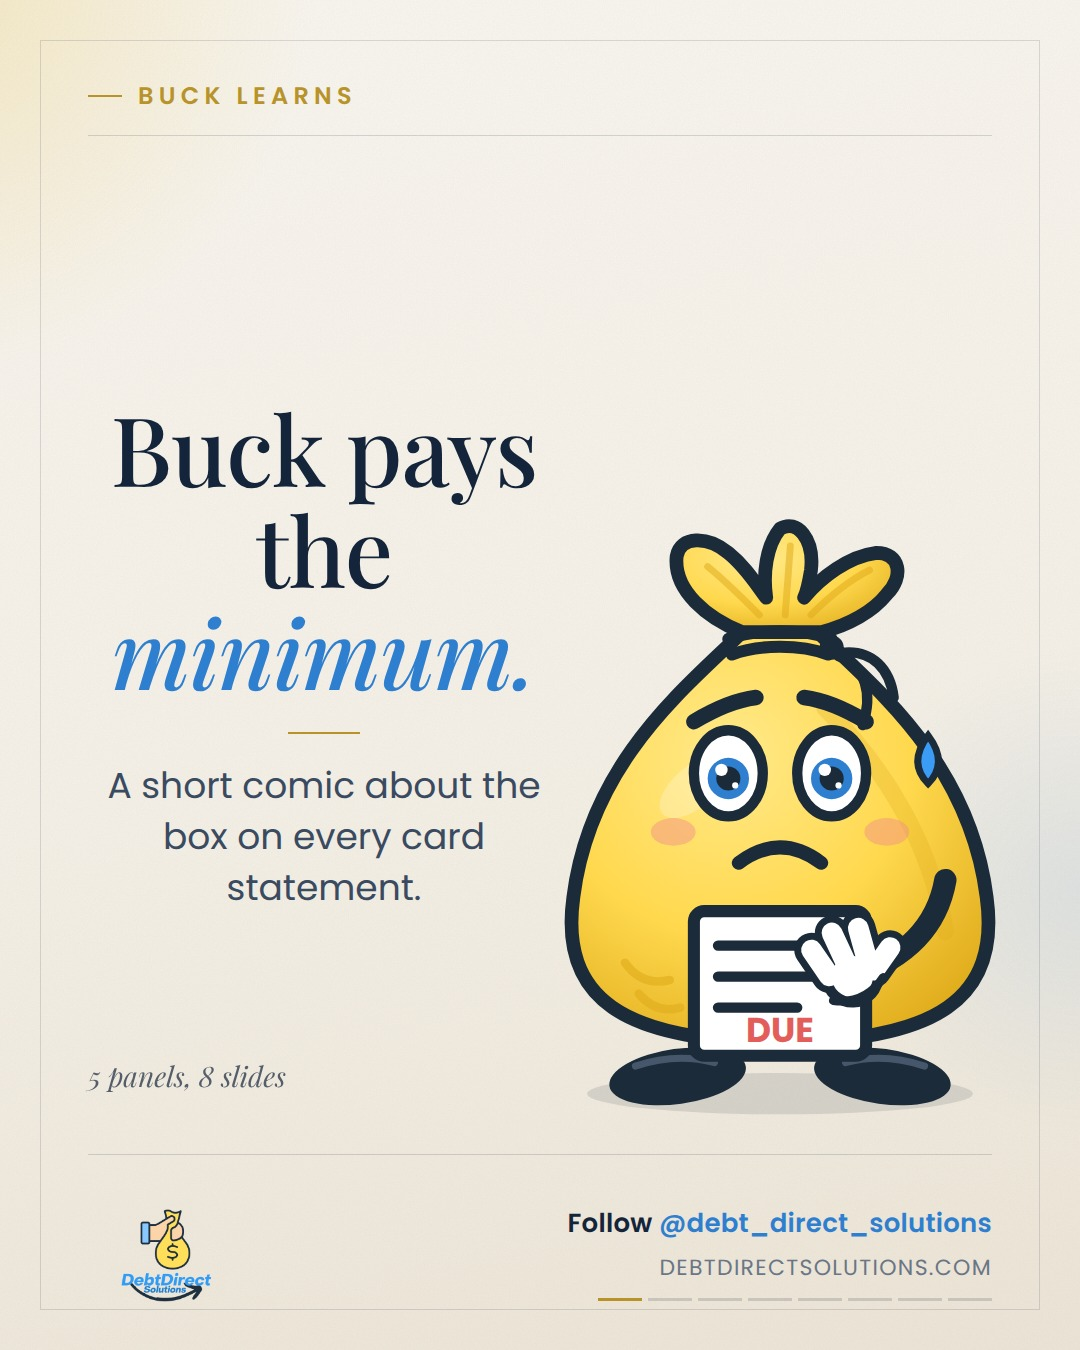
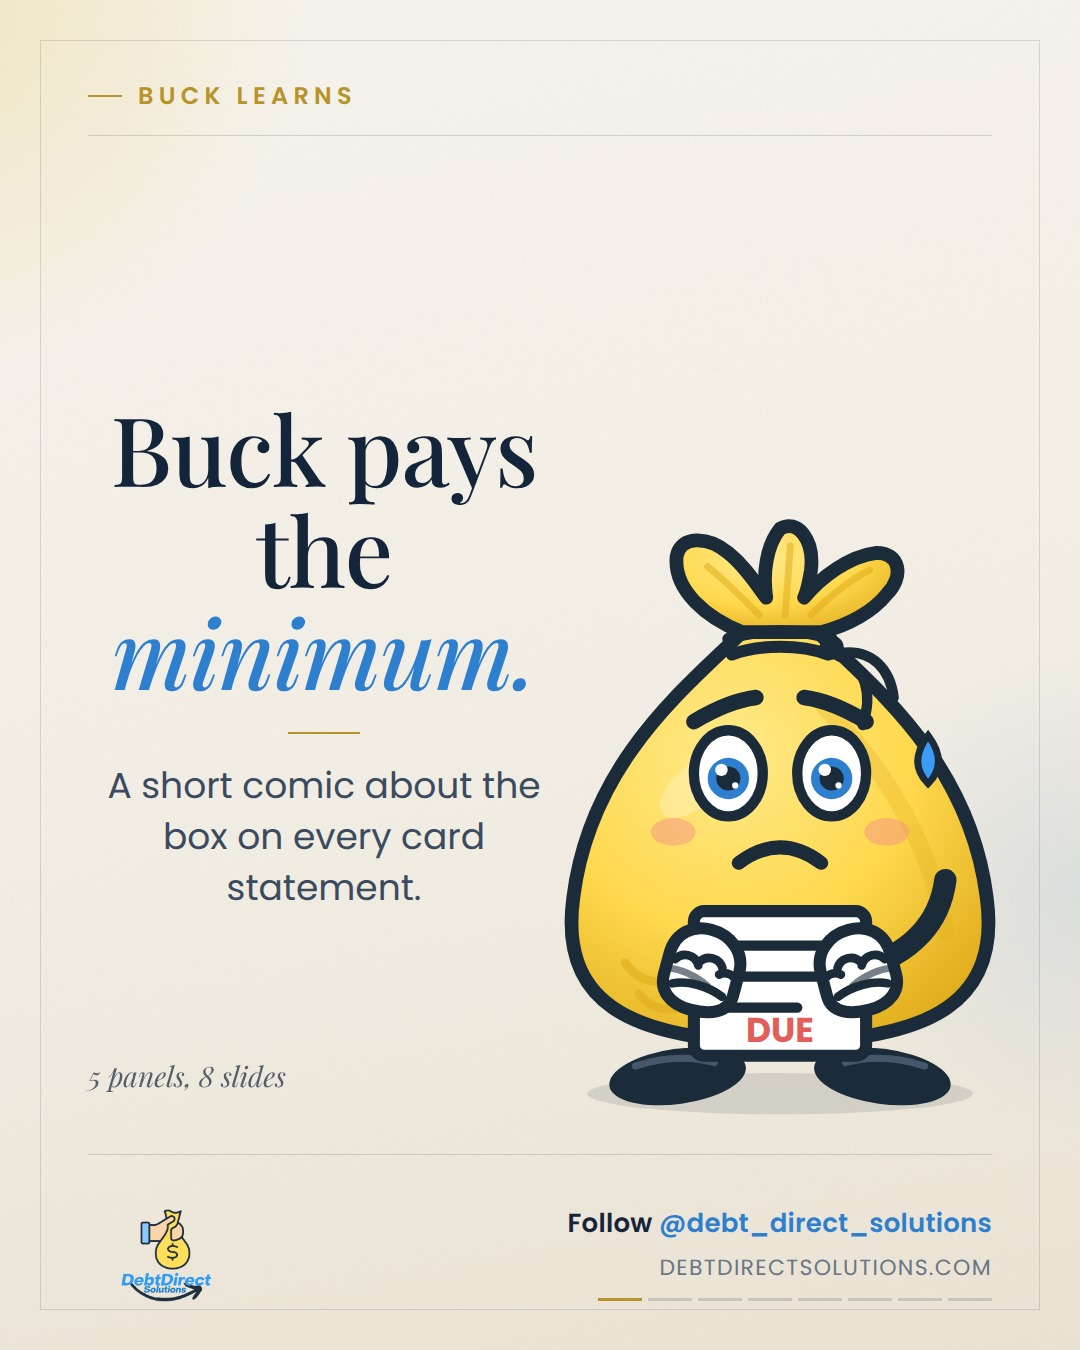
mascot: gripping fist for held props, drawn in front of the object; comics re-rendered
Claude-Session: https://claude.ai/code/session_012exzCMp7RCQNb1KJZRMuDV

Changed region(s): [[0.7333, 0.6533, 0.8556, 0.7778], [0.6111, 0.6844, 0.7028, 0.7778]]

diff --git a/agent/src/social/mascot.py b/agent/src/social/mascot.py
@@ -142,6 +142,16 @@ def _glove(x: int, y: int, rot: float = 0, mirror: bool = False) -> str:
     return f'<g transform="translate({x} {y}) rotate({rot:.0f}){flip}">{layer(NAVY, 20)}{layer(WHITE, 12)}{cuff}</g>'
 
 
+def _fist(x: int, y: int, rot: float = 0, mirror: bool = False) -> str:
+    """A closed cartoon hand gripping something: mitten palm, three knuckle bumps curling over the edge, a thumb across."""
+    flip = " scale(-1 1)" if mirror else ""
+    body = (f'<path d="M-20 -4 C -20 -18, -10 -24, 0 -24 C 12 -24, 22 -16, 22 -4 L 22 10 C 22 20, 12 24, 0 24 C -12 24, -20 18, -20 8 Z" fill="{WHITE}" stroke="{NAVY}" stroke-width="7" stroke-linejoin="round"/>'
+            f'<path d="M-16 -2 a 8 8 0 0 1 14 0 M-2 -4 a 8 8 0 0 1 14 0 M11 0 a 7 7 0 0 1 11 2" fill="none" stroke="{NAVY}" stroke-width="5" stroke-linecap="round"/>'
+            f'<path d="M-14 12 C -6 8, 6 8, 16 12" fill="none" stroke="{NAVY}" stroke-width="5" stroke-linecap="round"/>'
+            f'<path d="M-20 4 q 14 -2 26 4" fill="none" stroke="{NAVY}" stroke-width="4" stroke-linecap="round" opacity=".6"/>')
+    return f'<g transform="translate({x} {y}) rotate({rot:.0f}){flip}">{body}</g>'
+
+
 def _arm(side: str, pose: str) -> str:
     sx = 104 if side == "L" else 296
     sy = 300
@@ -150,7 +160,7 @@ def _arm(side: str, pose: str) -> str:
         "rest":  (sx + d * 34, 352),
         "wave":  (sx + d * 62, 190) if side == "R" else (sx + d * 34, 352),
         "chin":  (200 - 34, 322) if side == "R" else (sx + d * 34, 352),
-        "hold":  (200 + d * 42, 356),
+        "hold":  (200 + d * 46, 352),
         "shrug": (sx + d * 68, 262),
         "cheer": (sx + d * 62, 176),
         "point": (sx + d * 78, 250) if side == "R" else (sx + d * 34, 352),
@@ -168,7 +178,16 @@ def _arm(side: str, pose: str) -> str:
     else:
         rot = along
     mirror = side == "R"       # thumb toward the body on both hands
-    return f'<path d="M{sx} {sy} Q {cx} {cy} {hx} {hy}" fill="none" stroke="{NAVY}" stroke-width="13" stroke-linecap="round"/>{_glove(int(hx), int(hy), rot, mirror)}'
+    line = f'<path d="M{sx} {sy} Q {cx} {cy} {hx} {hy}" fill="none" stroke="{NAVY}" stroke-width="13" stroke-linecap="round"/>'
+    hand = _fist(int(hx), int(hy), -15 * d, mirror) if pose == "hold" else _glove(int(hx), int(hy), rot, mirror)
+    return line + hand
+
+
+def _arm_parts(side: str, pose: str) -> tuple[str, str]:
+    """(arm line, hand) so the hands can be layered in front of a held prop."""
+    full = _arm(side, pose)
+    k = full.index("<g ")
+    return full[:k], full[k:]
 
 
 def _legs() -> str:
@@ -215,13 +234,12 @@ def mascot(expr: str = "happy", pose: str = "rest", prop: str = "none", *, shado
     parts = [_defs()]
     if shadow:
         parts.append(f'<ellipse cx="200" cy="424" rx="112" ry="12" fill="{NAVY}" opacity=".12"/>')
-    parts.append(_arm("L", pose))
-    parts.append(_bag())
-    parts.append(_dollar())
-    parts.append(_legs())
     if pose == "hold":
-        parts.append('<g transform="translate(0 8)">' + _prop(prop) + "</g>")
-    parts.append(_arm("R", pose))
+        l_line, l_hand = _arm_parts("L", pose)
+        r_line, r_hand = _arm_parts("R", pose)
+        parts += [l_line, _bag(), _dollar(), _legs(), r_line, '<g transform="translate(0 8)">' + _prop(prop) + "</g>", l_hand, r_hand]
+    else:
+        parts += [_arm("L", pose), _bag(), _dollar(), _legs(), _arm("R", pose)]
     parts += [_cheeks(), _brows(expr), _eyes(expr), _mouth(expr), _sweat(expr), _thought(expr)]
     attrs = f'width="{size}" height="{size}"' if size else ""
     return f'<svg xmlns="http://www.w3.org/2000/svg" viewBox="20 60 360 380" {attrs}>{"".join(parts)}</svg>'
